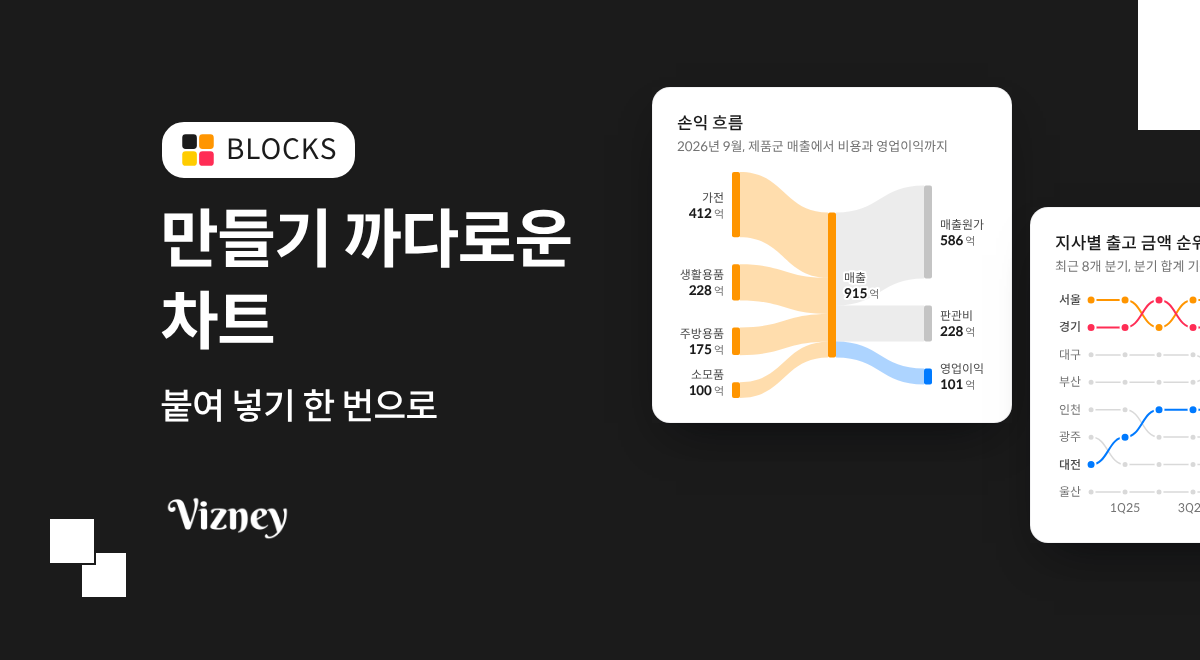
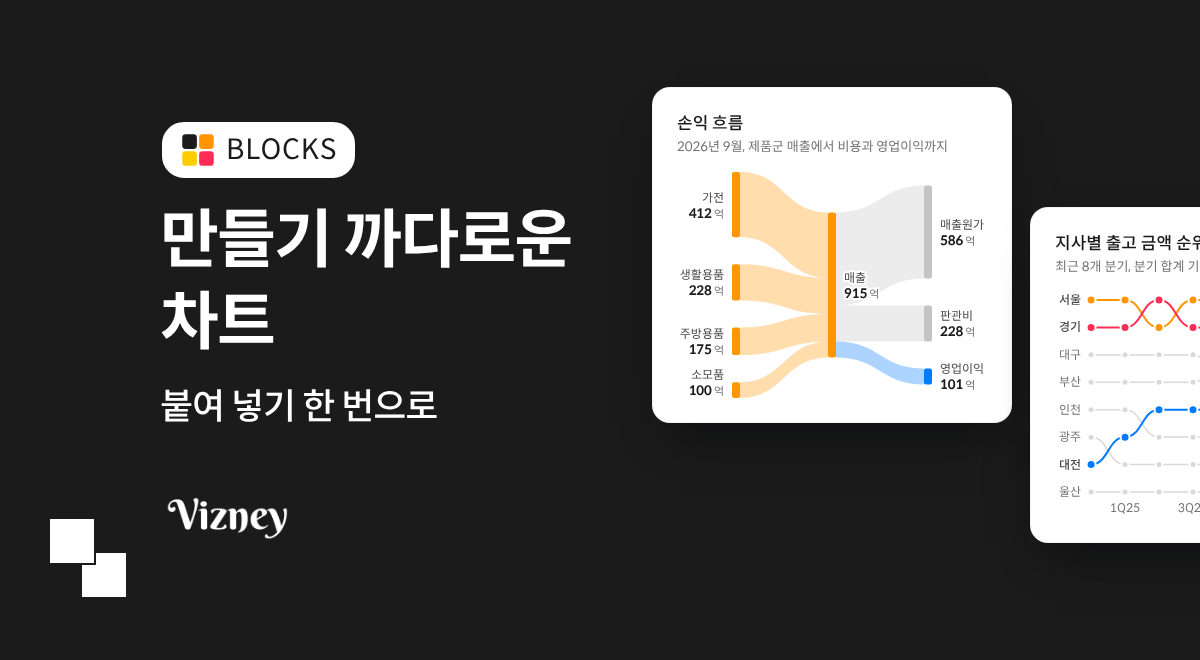
공유 이미지: 오른쪽 위 흰 사각형 빼기
Claude-Session: https://claude.ai/code/session_01F12JZiQZEoBWHksvZRXae5

Changed region(s): [[0.925, 0.0, 1.0, 0.2121]]

diff --git a/README.md b/README.md
@@ -96,7 +96,7 @@ SPOQA_DIR=/path/to/spoqa-han-sans/Original/SpoqaHanSansNeo node build.mjs
 - `src/`: 카드 공통 부품(`*.js`, `*.css`), 카드별 코드와 예시 데이터(`src/variants/`), 카테고리 설명과 규칙(`src/variants/meta.json`), 목적 색인(`src/variants/purposes.json`: 목적마다 기본 카드가 맨 앞이고, 나머지는 쓰는 조건과 함께 적습니다). 카드를 목록에서 내릴 때는 지우지 않고 meta.json의 그 카드에 `retired`(버전, 대신 쓸 카드, 이유)를 적습니다. 주소와 코드는 남고 목록에서만 빠집니다
 - 영어: 한국어가 원본이고 영어는 덧씌웁니다. 카드 안 문구(합계 · 기타 · 툴팁 · 낭독 문구)는 `src/core.js`의 `EN` 표와 `tx()`로 바뀌고, 사이트 문구는 `build.mjs`의 `WORDS`, 카드의 쓰임과 규칙은 `src/variants/meta.en.json`, 목적 색인은 `purposes.en.json`, 예시 데이터는 `<id>.en.json`(`"lang": "en"` 포함), 토큰 설명은 `src/tokens.en.css`(선언은 `tokens.css`와 같아야 합니다)에 있습니다. 카드를 더할 때는 이 넷을 함께 적어야 가드를 지납니다
 - `page/`: 사이트 화면(`site.css`, `site.js`), 차트 그림(`tiles.json`), 머리글과 공유 이미지에 쓰는 로고(`vizney-logo.png`, 블로그 헤더와 같은 흰색 Vizney 로고). 머리글은 Vizney 공통 헤더로, Vizney 블로그(kr.vizney.com · www.vizney.com) 헤더를 값 그대로 옮긴 것입니다(Vizney Styles도 같은 값을 씁니다). 768px 이상은 2줄(지구본 · 돋보기 · 가운데 로고 / Vizney 메뉴), 767px 이하는 1줄과 전체 화면 메뉴입니다. 블로그가 기준이므로 블로그가 바뀔 때만 값을 고칩니다. 그 아래 탭 줄(Vizney Blocks · 카드 · 쓰는 법 · GitHub)이 이 사이트의 메뉴이고, 카드 찾기는 돋보기나 ⌘K로 엽니다. UI 강조색은 블로그 포스트 이미지의 노랑(#ffcc00) 하나만 씁니다. 파비콘은 블로그와 같은 Vizney 아이콘(`favicon.png`, `favicon.ico`, `apple-touch-icon.png`)이고, 2×2 블록 마크는 OpenDesign 플러그인 아이콘(`icon.svg`)에만 씁니다. 사이트(`docs/`)와 한 페이지 갤러리(`dist/index.html`)가 함께 씁니다.
-- `tools/`: 부분 글꼴 만들기, 글꼴 라이선스, 공유 이미지(영어 `og.png`, 한국어 `og-ko.png`). 공유 이미지는 Vizney 블로그 포스트 대표 이미지 서식(Figma 원본 1200 × 660: 태그, 제목, 한 줄 부제, 로고, 겹친 사각형 두 개, 오른쪽 위 흰 사각형)을 따르되 바탕은 검정으로, 오른쪽에는 틀로 감싼 실제 카드 두 장을 둡니다. 빌드한 뒤 `docs/`를 띄워 두고 `node tools/og.mjs`(Playwright 필요)로 다시 만들고 한 번 더 빌드합니다
+- `tools/`: 부분 글꼴 만들기, 글꼴 라이선스, 공유 이미지(영어 `og.png`, 한국어 `og-ko.png`). 공유 이미지는 Vizney 블로그 포스트 대표 이미지 서식(Figma 원본 1200 × 660: 태그, 제목, 한 줄 부제, 로고, 겹친 사각형 두 개)을 따르되 바탕은 검정으로, 오른쪽에는 틀로 감싼 실제 카드 두 장을 둡니다. 빌드한 뒤 `docs/`를 띄워 두고 `node tools/og.mjs`(Playwright 필요)로 다시 만들고 한 번 더 빌드합니다
 - `docs/`: 빌드 결과. 영문 첫 화면과 차트 페이지(`/bar/` 등), 한국어 첫 화면과 차트 페이지(`docs/ko/`), 영문 카드 페이지와 코드(`/cards/`)·`llms.txt`·`tokens.css`, 한국어 카드 페이지와 코드(`docs/ko/cards/`)·`llms.txt`·`tokens.css`, 예전 영문 주소에서 넘겨 주는 페이지와 영어 파일 사본(`docs/en/`)가 들어 있습니다. GitHub Pages가 이 폴더를 blocks.vizney.com로 내보냅니다.
 - `skills/vizney-blocks/`: 빌드 결과. 코딩 에이전트용 스킬(입구인 영어판 `SKILL.md`, 한국어로 일할 때 따르는 `SKILL.ko.md`, 예시 `examples/`)로, `purposes.json` · `purposes.en.json`과 쓰는 규칙에서 함께 만들어집니다. 같은 폴더의 `open-design.json`, `icon.svg`, `preview/index.html`은 OpenDesign 플러그인 카드용입니다. `docs/`처럼 직접 고치지 않습니다.
 

diff --git a/releases/v0.47.md b/releases/v0.47.md
@@ -6,8 +6,8 @@
   - 태그: 흰 바탕, 모서리 24px, 안쪽 여백 10px 18px, 아이콘 36px, Regular 28px 대문자, 자간 0.84px
   - 제목: Bold 64px, 줄 높이 1.28, 자간 -1.92px
   - 부제: Medium 36px, 줄 높이 1.28, 자간 -1.08px
-  - 로고 136 × 51, 겹친 48px 사각형 두 개(80, 551 · 48, 517), 오른쪽 위 흰 사각형(473 × 308, 왼쪽 1136 · 위 -176)
-- 대표 이미지와 다른 점 두 가지: 바탕은 검정(#1b1b1b)에 흰 글자와 흰 로고를 쓰고, 차트 자리에는 틀로 감싼 실제 카드 두 장(Sankey - Levels, Bump - Basic)을 둡니다. 태그 아이콘은 Blocks 마크(2×2)입니다.
+  - 로고 136 × 51, 겹친 48px 사각형 두 개(80, 551 · 48, 517)
+- 대표 이미지와 다른 점: 바탕은 검정(#1b1b1b)에 흰 글자와 흰 로고를 쓰고, 차트 자리에는 틀로 감싼 실제 카드 두 장(Sankey - Levels, Bump - Basic)을 두며, 오른쪽 위·아래 모서리의 흰 사각형은 뺍니다. 태그 아이콘은 Blocks 마크(2×2)입니다.
 - 크기가 1200 × 630에서 1200 × 660으로 바뀌었습니다. 주소(/og.png, /og-ko.png)는 그대로입니다.
 - 문구: 영어 'Hard-to-build Charts · in a single paste', 한국어 '만들기 까다로운 차트 · 붙여 넣기 한 번으로'.
 - 쓰지 않게 된 page/vizney-wordmark.png를 지웠습니다. 카드 코드, 카드 주소, llms.txt, 스킬의 내용은 바뀌지 않았습니다(버전 표기만 v0.47).
